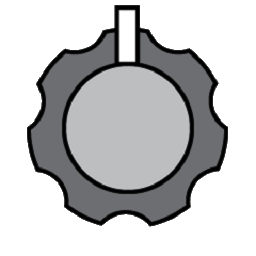
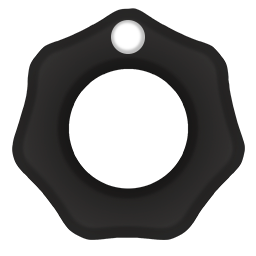
Fixed knob rotation. Added new knob view. Added css styles.

diff --git a/src/main/resources/ui/gui/CSS/BottonStyle.css b/src/main/resources/ui/gui/CSS/BottonStyle.css
@@ -1,0 +1,28 @@
+
+.button {
+    -fx-background-radius: 8;
+    -fx-background-color:
+            linear-gradient(from 0% 93% to 0% 100%, #cabccc 0%, #b7b7c9 100%),
+            #aaaab7,
+            #c0c0cc,
+            radial-gradient(center 50% 50%, radius 100%, #fafffa, #aeaebb);
+    -fx-effect: dropshadow(gaussian, rgba(17, 16, 16,0.75),3,0,0,1);
+}
+
+.button:hover, .text-field:hover {
+    -fx-background-radius: 8;
+    -fx-background-color:
+            linear-gradient(from 0% 93% to 0% 100%, #d0c7d2 0%, #dedee7 100%),
+            #c3c3cc,
+            #dcdce1,
+            radial-gradient(center 50% 50%, radius 100%, #f1f0f0, #b6b6c2);
+    -fx-effect: dropshadow(gaussian, rgba(98, 94, 94, 0.92),3,0,0,1);
+}
+
+.button:pressed {
+    -fx-background-radius: 8;
+    -fx-background-color:
+            #adadb9,
+            radial-gradient(center 50% 50%, radius 100%, #fafffa, #8686a0);
+    -fx-effect: innershadow(three-pass-box, rgba(17, 16, 16, 0.22),2,2,0,1);
+}

diff --git a/src/main/resources/ui/gui/CSS/DraggableStyle.css b/src/main/resources/ui/gui/CSS/DraggableStyle.css
@@ -1,0 +1,8 @@
+.control-block{
+    -fx-background-radius: 15px;
+    -fx-border-radius: 15px;
+    -fx-background-color: lightgray;
+    -fx-border-style: dashed;
+    -fx-border-color: darkgrey;
+    -fx-border-width: 2px;
+}

diff --git a/src/main/resources/ui/gui/CSS/TextStyleForBotton.css b/src/main/resources/ui/gui/CSS/TextStyleForBotton.css
@@ -1,0 +1,6 @@
+.button{
+    /*-fx-font-weight: bold;*/
+    /*-fx-font-size: 1.5em;*/
+    -fx-font-family: monospace;
+    -fx-text-fill: #333333;
+}

diff --git a/src/main/resources/ui/gui/CSS/BackGroundStyle.css b/src/main/resources/ui/gui/CSS/BackGroundStyle.css
@@ -1,0 +1,3 @@
+.root{
+    -fx-background-color: linear-gradient(to left, #b0e7e5, #d49ce8);
+}

diff --git a/src/main/resources/ui/gui/CSS/BackGroundPlay.css b/src/main/resources/ui/gui/CSS/BackGroundPlay.css
@@ -1,0 +1,3 @@
+.table{
+    -fx-background-color: gray;
+}

diff --git a/src/main/resources/ui/gui/CSS/TextFieldStyle.css b/src/main/resources/ui/gui/CSS/TextFieldStyle.css
@@ -1,0 +1,3 @@
+.text-field {
+
+}

diff --git a/src/main/java/ui/gui/knob/Knob.java b/src/main/java/ui/gui/knob/Knob.java
@@ -11,18 +11,26 @@ import javafx.scene.layout.*;
 import javafx.scene.paint.Color;
 import javafx.scene.text.TextAlignment;
 
+import java.net.URI;
 import java.net.URISyntaxException;
+import java.net.URL;
 
 public class Knob extends Region {
 
     final static Image image;
+    final static Image fixedImage;
 
     static {
         try {
             image = new Image(Knob.class.getResource("knob.png").toURI().toString());
+            URL fixedURL = Knob.class.getResource("fixedKnob.png");
+            if(fixedURL == null)
+                fixedImage = null;
+            else fixedImage = new Image(fixedURL.toURI().toString());
         } catch (URISyntaxException e) {
             throw new RuntimeException(e);
         }
+
     }
 
     final KnobController controller;
@@ -31,11 +39,17 @@ public class Knob extends Region {
         controller = new KnobController();
 
         ImageView sprite = new ImageView(image);
+        ImageView fixedSprite = null;
+        if(fixedImage != null)
+             fixedSprite = new ImageView(fixedImage);
         Label text = new Label();
         text.setTextAlignment(TextAlignment.CENTER);
         VBox textBox = new VBox(text);
         textBox.setAlignment(Pos.BOTTOM_CENTER);
-        VBox spriteBox = new VBox(sprite);
+        StackPane spriteBox;
+        if(fixedSprite == null)
+            spriteBox = new StackPane(sprite);
+        else spriteBox = new StackPane(fixedSprite, sprite);
         spriteBox.setAlignment(Pos.CENTER);
         StackPane pane = new StackPane(textBox, spriteBox);
         spriteBox.minWidthProperty().bind(pane.widthProperty());
@@ -44,6 +58,7 @@ public class Knob extends Region {
         spriteBox.maxHeightProperty().bind(pane.heightProperty());
 
         controller.sprite = sprite;
+        controller.fixedSprite = fixedSprite;
         controller.text = text;
         controller.pane = pane;
 
@@ -51,6 +66,13 @@ public class Knob extends Region {
         sprite.setOnMouseDragged(controller::OnKnobDragged);
         sprite.setOnMouseReleased(controller::OnKnobReleased);
         sprite.setOnScroll(controller::OnKnobScrolled);
+
+        if(fixedSprite != null) {
+            fixedSprite.setOnMousePressed(controller::OnKnobPressed);
+            fixedSprite.setOnMouseDragged(controller::OnKnobDragged);
+            fixedSprite.setOnMouseReleased(controller::OnKnobReleased);
+            fixedSprite.setOnScroll(controller::OnKnobScrolled);
+        }
 
         controller.initialize();
 

diff --git a/src/main/java/ui/gui/knob/KnobController.java b/src/main/java/ui/gui/knob/KnobController.java
@@ -15,7 +15,7 @@ import static javafx.beans.binding.Bindings.min;
 
 public class KnobController {
 
-    private static final double knobSizeCoefficient = 0.9;
+    private static final double knobSizeCoefficient = 0.7;
     private static final double textSizeCoefficient = 0.12;
     private static final double dragSpeed = 0.004;
     private static final double scrollSpeed = 0.00015;
@@ -27,6 +27,7 @@ public class KnobController {
     @FXML Label text;
     @FXML StackPane pane;
     @FXML ImageView sprite;
+    @FXML ImageView fixedSprite;
 
     private double prevDragY;
 
@@ -59,6 +60,11 @@ public class KnobController {
     public void initialize(){
         sprite.fitWidthProperty().bind(pane.widthProperty().multiply(knobSizeCoefficient));
         sprite.fitHeightProperty().bind(pane.heightProperty().multiply(knobSizeCoefficient));
+
+        if(fixedSprite != null) {
+            fixedSprite.fitWidthProperty().bind(pane.widthProperty().multiply(knobSizeCoefficient));
+            fixedSprite.fitHeightProperty().bind(pane.heightProperty().multiply(knobSizeCoefficient));
+        }
 
         sizeProperty = new SimpleDoubleProperty();
         sizeProperty.addListener(((observable, oldValue, newValue) -> text.setFont(Font.font("Comic Sans MS", newValue.doubleValue()*textSizeCoefficient))));

diff --git a/src/main/java/ui/gui/synthblock/SynthBlock.java b/src/main/java/ui/gui/synthblock/SynthBlock.java
@@ -115,8 +115,7 @@ public class SynthBlock extends TitledPane implements Deletable {
         this.setGraphic(titleBox);
         HBox box = new HBox(gridPane);
         box.setAlignment(Pos.CENTER);
-        gridPane.setBorder(new Border(new BorderStroke(Color.GREY,
-                BorderStrokeStyle.DASHED, new CornerRadii(cellSize/3), BorderWidths.DEFAULT)));
+        gridPane.getStyleClass().addAll("control-block");
         this.setContent(box);
         this.setMaxWidth(USE_PREF_SIZE);
 
